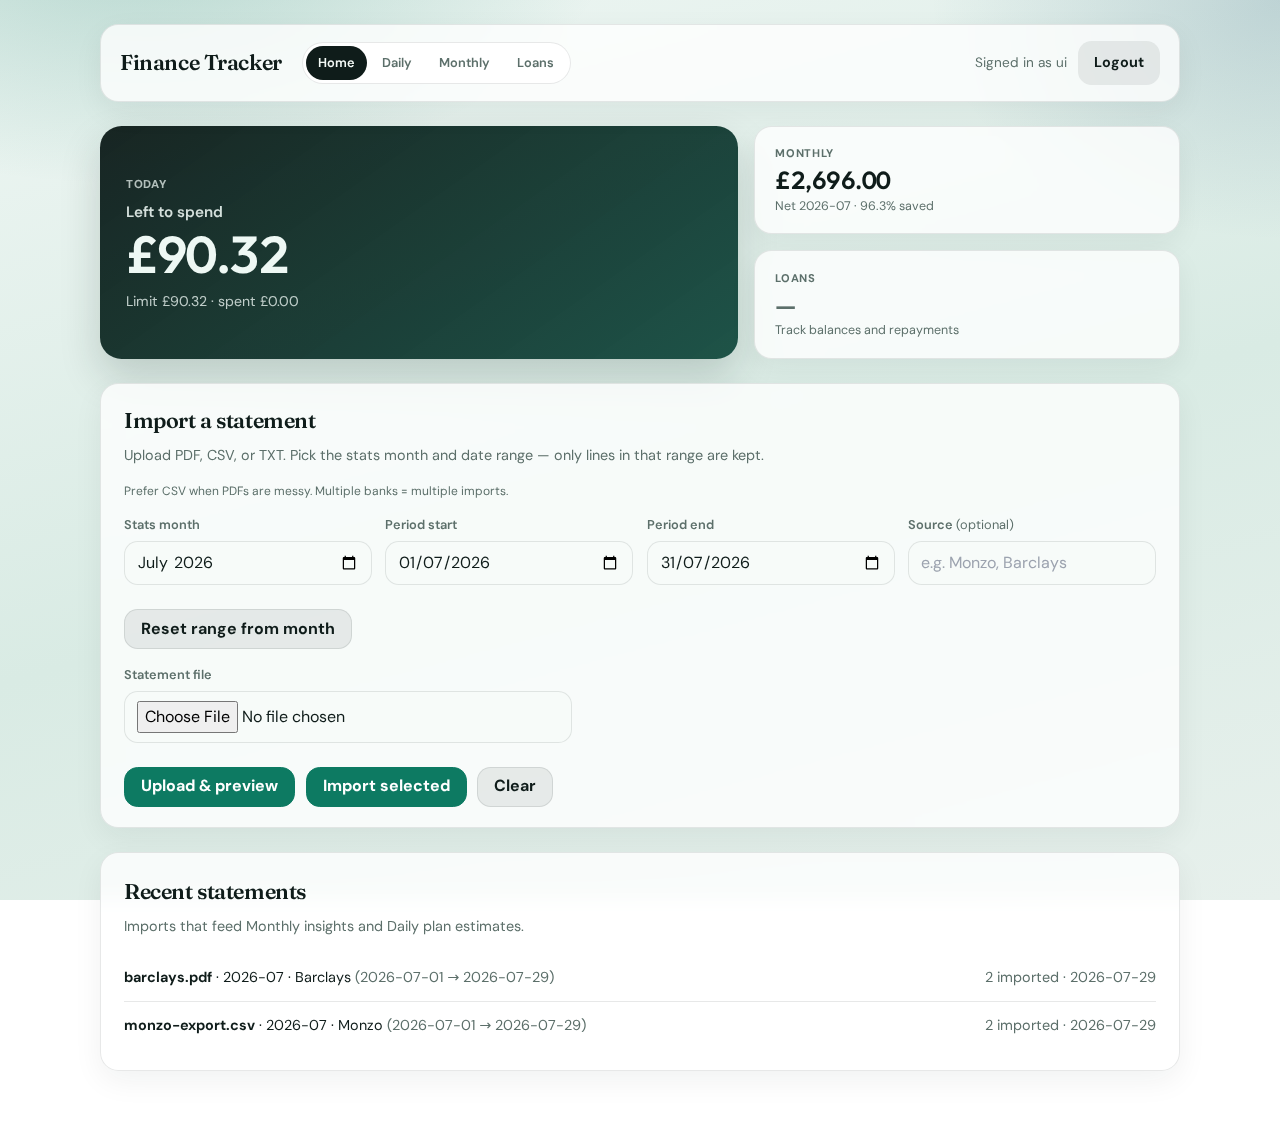
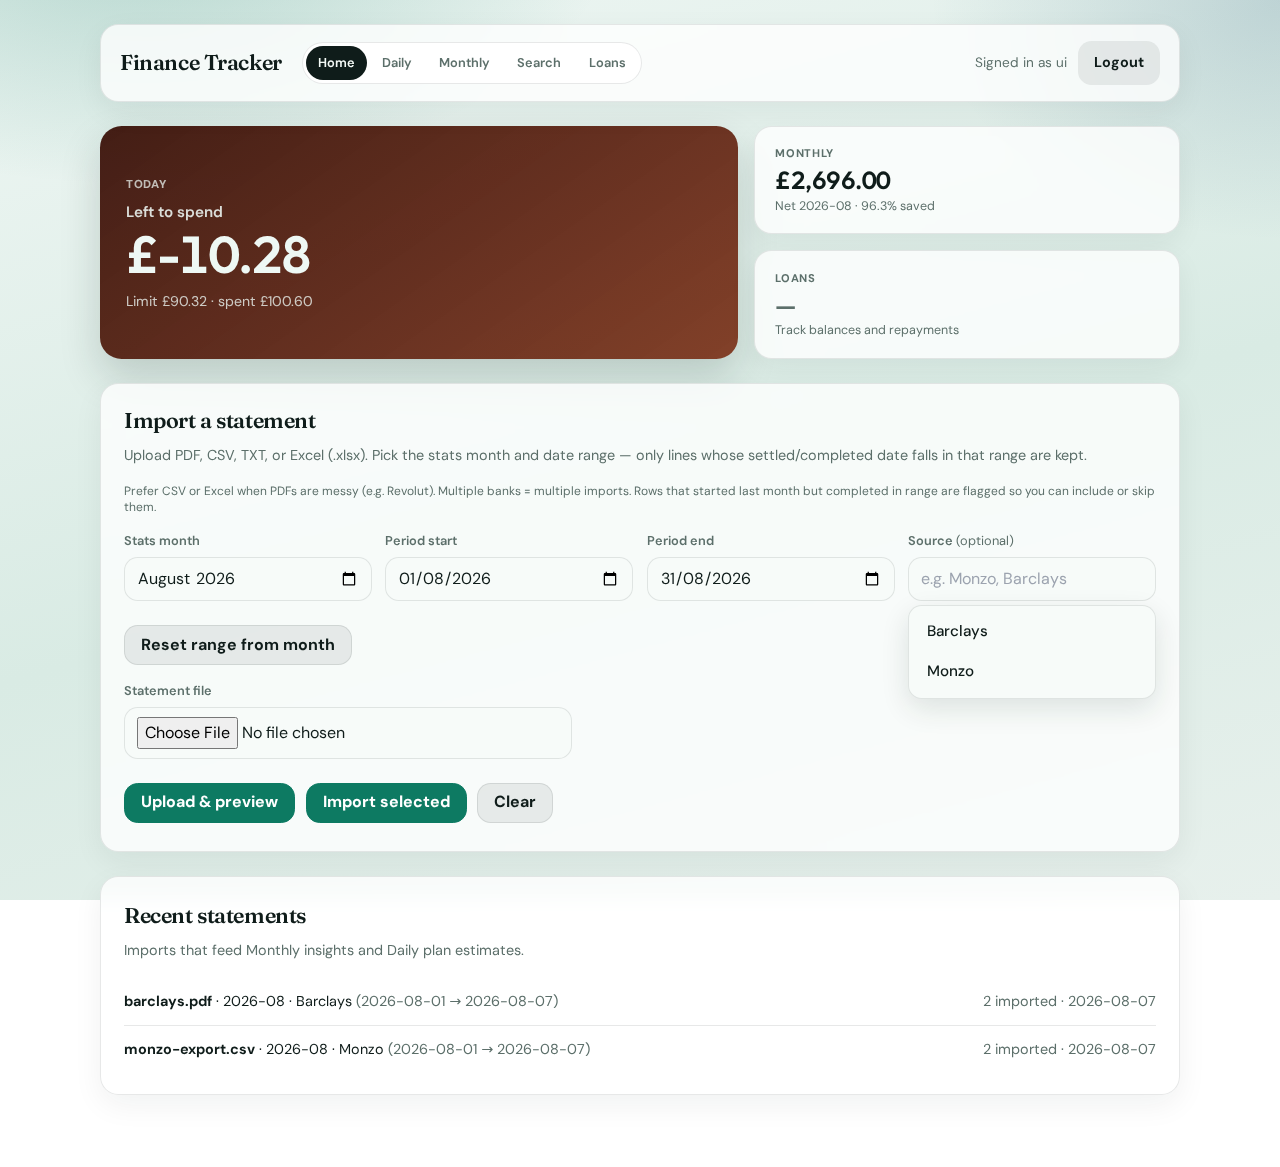
Show full Source list on focus; refresh feature screenshots
Focusing the Source field now lists all known banks so switching
does not require clearing first; typing still filters. Update the
bank-source docs screenshots for the custom combobox.

diff --git a/static/spending.js b/static/spending.js
@@ -2530,8 +2530,13 @@ document.addEventListener('DOMContentLoaded', () => {
             if (activeIndex >= filtered.length) activeIndex = filtered.length ? 0 : -1;
         };
 
-        const openList = () => {
-            filterOptions();
+        const openList = ({ filter = true } = {}) => {
+            if (filter) {
+                filterOptions();
+            } else {
+                filtered = options.slice();
+                activeIndex = -1;
+            }
             if (!options.length) {
                 setExpanded(false);
                 return;
@@ -2547,13 +2552,11 @@ document.addEventListener('DOMContentLoaded', () => {
         const selectValue = (label) => {
             input.value = String(label || '').slice(0, 80);
             closeList();
-            input.dispatchEvent(new Event('input', { bubbles: true }));
-            input.focus();
         };
 
         const moveActive = (delta) => {
             if (!open) {
-                openList();
+                openList({ filter: false });
                 if (!filtered.length) return;
             }
             if (!filtered.length) return;
@@ -2566,12 +2569,14 @@ document.addEventListener('DOMContentLoaded', () => {
         };
 
         input.addEventListener('focus', () => {
-            openList();
+            // Show the full known-source list on focus so users can switch
+            // without clearing first; typing still filters via `input`.
+            openList({ filter: false });
         });
 
         input.addEventListener('input', () => {
             activeIndex = -1;
-            openList();
+            openList({ filter: true });
         });
 
         input.addEventListener('keydown', (e) => {
@@ -2624,11 +2629,12 @@ document.addEventListener('DOMContentLoaded', () => {
         return {
             refresh(sources) {
                 options = normalizeKnownBankSources(sources);
-                filterOptions();
                 if (open) {
                     if (!options.length) {
                         closeList();
                     } else {
+                        // Keep whatever filter the user currently has while typing.
+                        filterOptions();
                         renderList();
                     }
                 }
